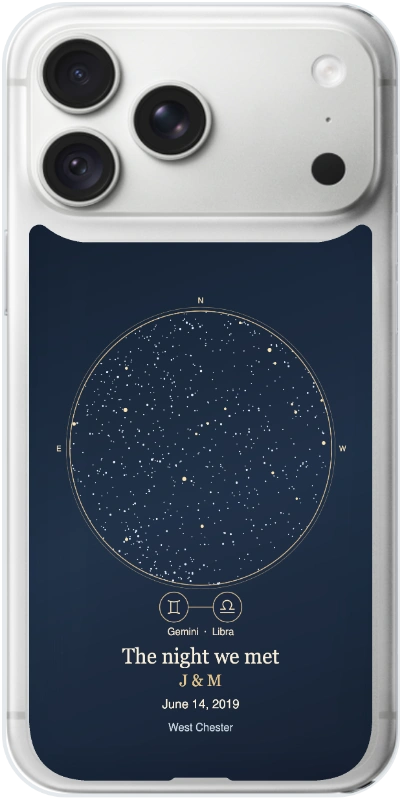
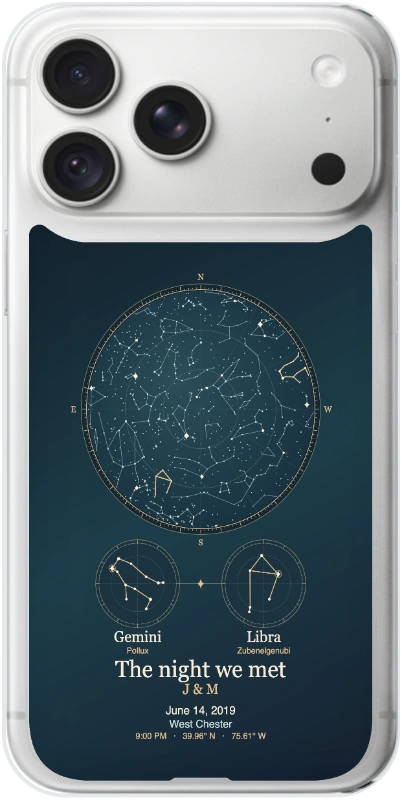
Draw the constellations behind personalized zodiac pairs

diff --git a/assets/night-sky.js b/assets/night-sky.js
@@ -5,21 +5,7 @@ window.KPNightSky = (function () {
   'use strict';
   const rad = Math.PI / 180;
   const signs = ['Aries','Taurus','Gemini','Cancer','Leo','Virgo','Libra','Scorpio','Sagittarius','Capricorn','Aquarius','Pisces'];
-  const emblems = [
-    'M0 16 Q0 -20 -12 -15 Q-22 -12 -13 -3 M0 16 Q0 -20 12 -15 Q22 -12 13 -3',
-    'M-14 -17 Q-12 -3 0 -3 Q12 -3 14 -17 M0 -3 A10 10 0 1 1 -.1 -3',
-    'M-14 -15 Q0 -10 14 -15 M-14 15 Q0 10 14 15 M-8 -12 V12 M8 -12 V12',
-    'M-16 -5 Q-5 -21 15 -10 M16 5 Q5 21 -15 10 M-8 -6 m-5 0 a5 5 0 1 0 10 0 a5 5 0 1 0 -10 0 M8 6 m-5 0 a5 5 0 1 0 10 0 a5 5 0 1 0 -10 0',
-    'M-12 4 a5 5 0 1 1 -.1 0 M-8 3 Q-15 -14 -4 -17 Q11 -21 8 -5 L4 7 Q1 20 14 14',
-    'M-17 -9 Q-13 -19 -10 -10 V10 M-10 -9 Q-5 -20 -2 -10 V10 M-2 -9 Q4 -20 6 -10 V3 Q7 14 16 17 M6 -3 Q20 -15 14 2 Q11 11 -1 15',
-    'M-17 13 H17 M-17 5 H-5 C-22 -12 -1 -22 8 -12 Q14 -4 5 5 H17',
-    'M-17 -9 Q-13 -19 -10 -10 V12 M-10 -9 Q-5 -20 -2 -10 V12 M-2 -9 Q4 -20 6 -10 V5 Q6 17 18 9 M12 8 L18 9 L17 15',
-    'M-15 15 L15 -15 M2 -15 H15 V-2 M-12 -3 L3 12',
-    'M-18 -13 Q-12 -21 -9 -6 L-6 9 Q-2 -26 4 -13 L8 5 Q14 18 19 5 Q19 -5 10 -1 Q3 3 2 15',
-    'M-17 -2 L-10 -10 L-7 -4 L1 -12 L4 -6 L13 -14 M-17 10 L-10 2 L-7 8 L1 0 L4 6 L13 -2',
-    'M-12 -16 Q2 0 -12 16 M12 -16 Q-2 0 12 16 M-13 0 H13'
-  ];
-  function project(stars, instant, lat, lon) {
+  function project(stars, instant, lat, lon, includeBelow=false) {
     const days = instant / 86400000 - 10957.5;
     const t = days / 36525;
     const local = (280.46061837 + 360.98564736629 * days + .000387933*t*t - t*t*t/38710000 + lon) * rad;
@@ -35,10 +21,12 @@ window.KPNightSky = (function () {
       const sinDec = Math.sin(theta)*Math.cos(d)*Math.cos(a) + Math.cos(theta)*Math.sin(d);
       const cosDec = Math.sqrt(Math.max(0, 1 - sinDec*sinDec));
       const up = Math.sin(phi)*sinDec + Math.cos(phi)*cosDec*Math.cos(hour);
-      if (up <= 0) continue;
+      if (up <= 0 && !includeBelow) continue;
       const east = -cosDec*Math.sin(hour), north = sinDec*Math.cos(phi) - cosDec*Math.cos(hour)*Math.sin(phi);
-      const scale = Math.acos(Math.min(1,up)) / (Math.PI/2) / (Math.hypot(east,north) || 1);
-      visible.push([-east*scale,-north*scale,magnitude]);
+      const scale = Math.acos(Math.max(-1,Math.min(1,up))) / (Math.PI/2) / (Math.hypot(east,north) || 1);
+      const point=[-east*scale,-north*scale,magnitude];
+      if(includeBelow)point.push(up);
+      visible.push(point);
     }
     return visible;
   }
@@ -56,46 +44,130 @@ window.KPNightSky = (function () {
     });
     return [...new Set(candidates)].filter(ms=>wallAt(ms)===wall).sort((a,b)=>a-b);
   }
-  function draw(stars, info) {
-    const c = document.createElement('canvas');
-    c.width=1200; c.height=2400;
-    const ctx=c.getContext('2d'), cx=600,cy=1290,r=440;
-    const wash=ctx.createLinearGradient(0,0,800,2400);
-    wash.addColorStop(0,'#081223');wash.addColorStop(.53,'#172941');wash.addColorStop(1,'#0b1525');
-    ctx.fillStyle=wash;ctx.fillRect(0,0,c.width,c.height);
-    function ring(x,y,radius,color,width) {
-      ctx.strokeStyle=color;ctx.lineWidth=width;ctx.beginPath();ctx.arc(x,y,radius,0,Math.PI*2);ctx.stroke();
-    }
-    function label(str,x,y,size,color,font,max=1010) {
-      ctx.textAlign='center';ctx.fillStyle=color;ctx.font=size+'px '+font;ctx.fillText(str,x,y,max);
-    }
-    // Reserve an inset for models with wide camera cutouts and tall print masks.
-    ctx.translate(0,-265);
-    ring(cx,cy,r,'#d8b786',3);ring(cx,cy,r+12,'#867963',1.5);
-    for (const [x,y,mag] of project(stars,info.instant,info.lat,info.lon)) {
-      const size=1.55+Math.pow((6-mag)/5,2)*3.7;
-      ctx.fillStyle=mag<2?'#ffe5b1':'#e0e9f5';ctx.beginPath();ctx.arc(cx+x*r,cy+y*r,size,0,Math.PI*2);ctx.fill();
-    }
-    label('N',cx,cy-r-25,26,'#efd7ad','sans-serif');
-    label('E',cx-r-37,cy+10,25,'#efd7ad','sans-serif');
-    label('W',cx+r+37,cy+10,25,'#efd7ad','sans-serif');
-    const pair=info.signs.filter(Boolean);
-    if(pair.length===2){ctx.strokeStyle='#d8b786';ctx.lineWidth=3;ctx.beginPath();ctx.moveTo(558,1800);ctx.lineTo(642,1800);ctx.stroke();}
-    pair.forEach((sign,i)=>{
-      const x=pair.length===1?600:510+i*180;
-      ctx.fillStyle='#122139';ctx.beginPath();ctx.arc(x,1800,48,0,2*Math.PI);ctx.fill();ring(x,1800,48,'#d8b786',3);
-      ctx.save();ctx.translate(x,1800);ctx.scale(1.35,1.35);ctx.strokeStyle='#fae3b7';ctx.lineWidth=2.6;
-      ctx.lineCap='round';ctx.lineJoin='round';ctx.stroke(new Path2D(emblems[signs.indexOf(sign)]));ctx.restore();
+  const figureIds = ['Ari','Tau','Gem','Cnc','Leo','Vir','Lib','Sco','Sgr','Cap','Aqr','Psc'];
+
+  // A north-up tangent-plane portrait keeps each sign recognizable across the RA seam.
+  function portraitPoints(stars) {
+    const vectors = stars.map(([ra,dec]) => [
+      Math.cos(dec*rad)*Math.cos(ra*rad), Math.cos(dec*rad)*Math.sin(ra*rad), Math.sin(dec*rad)
+    ]);
+    const center = vectors.reduce((sum,v)=>sum.map((n,i)=>n+v[i]), [0,0,0]);
+    const ra = Math.atan2(center[1],center[0]);
+    const dec = Math.atan2(center[2],Math.hypot(center[0],center[1]));
+    const points = vectors.map(([x,y,z]) => {
+      const along = x*Math.cos(ra)+y*Math.sin(ra);
+      const depth = along*Math.cos(dec)+z*Math.sin(dec);
+      return [(x*Math.sin(ra)-y*Math.cos(ra))/depth, (along*Math.sin(dec)-z*Math.cos(dec))/depth];
     });
-    if(pair.length)label(pair.join('  ·  '),600,1890,33,'#f9e4c7','sans-serif');
-    label(info.title,600,1981,69,'#fff3dc','Georgia, serif');
-    if(info.initials)label(info.initials,600,2054,54,'#e6c488','Georgia, serif');
-    label(info.date,600,2125,41,'#fff3dc','sans-serif');
-    label(info.place,600,2198,36,'#c7d2df','sans-serif',965);
+    const mid = axis => {
+      const values = points.map(p=>p[axis]);
+      return (Math.min(...values)+Math.max(...values))/2;
+    };
+    const mx=mid(0), my=mid(1);
+    const radius=Math.max(...points.map(([x,y])=>Math.hypot(x-mx,y-my)));
+    return points.map(([x,y])=>[(x-mx)/radius,(y-my)/radius]);
+  }
+
+  function draw(stars, figures, info) {
+    const c=document.createElement('canvas');
+    c.width=1200; c.height=2400;
+    const ctx=c.getContext('2d');
+    const gold='#ecc18a', ivory='#fff0d9', pale='#cbdedc', brass='#827c65';
+    const pairs=info.signs.filter(sign=>signs.includes(sign));
+    const active=new Set(pairs.map(sign=>figureIds[signs.indexOf(sign)]));
+    const background=ctx.createLinearGradient(80,250,1050,2200);
+    background.addColorStop(0,'#081724');background.addColorStop(.50,'#133542');background.addColorStop(1,'#0a1727');
+    ctx.fillStyle=background;ctx.fillRect(0,0,c.width,c.height);
+    function line(x,y,xx,yy,color,width) {
+      ctx.strokeStyle=color;ctx.lineWidth=width;ctx.beginPath();ctx.moveTo(x,y);ctx.lineTo(xx,yy);ctx.stroke();
+    }
+    function circle(x,y,r,color,width) {
+      ctx.beginPath();ctx.arc(x,y,r,0,Math.PI*2);
+      if(width){ctx.strokeStyle=color;ctx.lineWidth=width;ctx.stroke();}
+      else{ctx.fillStyle=color;ctx.fill();}
+    }
+    function lettering(str,x,y,size,color,face,maxWidth=960) {
+      ctx.textAlign='center';ctx.fillStyle=color;ctx.font=size+'px '+face;ctx.fillText(str,x,y,maxWidth);
+    }
+    function spark(x,y,r,color) {
+      ctx.fillStyle=color;ctx.beginPath();ctx.moveTo(x,y-r);ctx.quadraticCurveTo(x+r*.14,y-r*.14,x+r*.75,y);
+      ctx.quadraticCurveTo(x+r*.14,y+r*.14,x,y+r);ctx.quadraticCurveTo(x-r*.14,y+r*.14,x-r*.75,y);
+      ctx.quadraticCurveTo(x-r*.14,y-r*.14,x,y-r);ctx.fill();
+    }
+    function ticks(x,y,r,count,color) {
+      for(let i=0;i<count;i++){
+        const angle=2*Math.PI*i/count, dx=Math.sin(angle),dy=-Math.cos(angle);
+        const length=i%5===0?12:5;
+        line(x+dx*r,y+dy*r,x+dx*(r+length),y+dy*(r+length),color,i%5===0?2:1.4);
+      }
+    }
+    function paths(figure,points,color,width,onSky=false) {
+      for(const path of figure.paths){
+        for(let i=1;i<path.length;i++){
+          const a=points[path[i-1]],b=points[path[i]];
+          if(onSky&&a[3]<=0&&b[3]<=0)continue;
+          line(a[0],a[1],b[0],b[1],color,width);
+        }
+      }
+    }
+    const cx=600,cy=900,r=380;
+    circle(cx,cy,r+21,'#091d28');circle(cx,cy,r+22,brass,2);circle(cx,cy,r+4,gold,2);
+    ticks(cx,cy,r+6,180,gold);
+    ctx.save();ctx.beginPath();ctx.arc(cx,cy,r,0,Math.PI*2);ctx.clip();
+    const field=ctx.createRadialGradient(510,795,10,cx,cy,560);
+    field.addColorStop(0,'#214652');field.addColorStop(.7,'#102c3a');field.addColorStop(1,'#0a192a');
+    ctx.fillStyle=field;ctx.fillRect(cx-r,cy-r,r*2,r*2);
+    for(const radius of [r/3,2*r/3])circle(cx,cy,radius,'#486366',1.5);
+    for(let i=0;i<12;i++){
+      const a=i*Math.PI/6;line(cx,cy,cx+r*Math.cos(a),cy+r*Math.sin(a),'#36535a',1);
+    }
+    for(const [id,figure] of Object.entries(figures)){
+      const projected=project(figure.stars,info.instant,info.lat,info.lon,true)
+        .map(([x,y,mag,up])=>[cx+x*r,cy+y*r,mag,up]);
+      paths(figure,projected,active.has(id)?gold:'#76939c',active.has(id)?3.4:1.8,true);
+    }
+    for(const [x,y,mag] of project(stars,info.instant,info.lat,info.lon)){
+      const size=1.35+Math.pow((6-mag)/5,2)*3.6;
+      circle(cx+x*r,cy+y*r,size,mag<2?ivory:'#d1e0df');
+      if(mag<1.1)spark(cx+x*r,cy+y*r,size*2,ivory);
+    }
+    ctx.restore();
+    [['N',cx,cy-r-35],['S',cx,cy+r+57],['E',cx-r-48,cy+10],['W',cx+r+48,cy+10]].forEach(([s,x,y])=>lettering(s,x,y,27,gold,'Georgia, serif'));
+
+    const portraitY=1460, pr=130;
+    function portrait(sign,x) {
+      const f=figures[figureIds[signs.indexOf(sign)]];
+      const pts=portraitPoints(f.stars).map(([a,b])=>[x+a*pr*.79,portraitY+b*pr*.79]);
+      circle(x,portraitY,pr+11,'#102a37');circle(x,portraitY,pr+11,brass,2);
+      ticks(x,portraitY,pr-2,60,'#aa956f');circle(x,portraitY,pr,'#647a77',1.6);
+      circle(x,portraitY,pr*.69,'#34515a',1.3);
+      line(x-pr+4,portraitY,x+pr-4,portraitY,'#34515a',1.2);
+      line(x,portraitY-pr+4,x,portraitY+pr-4,'#34515a',1.2);
+      paths(f,pts,gold,3);
+      pts.forEach(([a,b],i)=>circle(a,b,Math.max(2.8,6.1-f.stars[i][2]*.48),ivory));
+      const [name,index]=f.anchor, [ax,ay]=pts[index];
+      circle(ax,ay,11,'#d4af79',1.6);spark(ax,ay,13,ivory);
+      lettering(sign,x,portraitY+187,49,ivory,'Georgia, serif',405);
+      lettering(name,x,portraitY+224,27,gold,'sans-serif',390);
+    }
+    if(pairs.length===2){
+      line(519,portraitY,681,portraitY,brass,2);spark(600,portraitY,17,gold);
+    }
+    pairs.forEach((s,i)=>portrait(s,pairs.length===1?cx:388+424*i));
+    const titleY=pairs.length?1760:1550;
+    lettering(info.title,cx,titleY,75,ivory,'Georgia, serif',930);
+    const offset=info.initials?54:0;
+    if(info.initials)lettering(info.initials,cx,titleY+54,46,gold,'Georgia, serif');
+    const dateY=titleY+65+offset;
+    lettering(info.date,cx,dateY,37,ivory,'sans-serif');
+    lettering(info.place,cx,dateY+43,35,pale,'sans-serif',900);
+    const coords=[Math.abs(info.lat).toFixed(2)+'° '+(info.lat<0?'S':'N'),Math.abs(info.lon).toFixed(2)+'° '+(info.lon<0?'W':'E')];
+    lettering([info.clock,...coords].join('   ·   '),cx,dateY+79,28,gold,'sans-serif',900);
     return c;
   }
   function mount(host, hooks) {
     host.innerHTML = `<h2>Map a special night</h2><p>Choose the date and place to map the bright stars above that horizon. Use 9:00 PM for an evening estimate.</p>
+    <details class="sky-example"><summary>See a finished example</summary><img src="assets/home/personal/sky-case.webp" alt="Gemini and Libra on a case with the night sky above West Chester on June 14, 2019" width="394" height="800"></details>
     <form id="skyForm"><label>Occasion<select name="occasion"><option>The night we met</option><option>Our wedding night</option><option>Under the same sky</option><option>The night you were born</option></select></label>
     <div class="studio-pair"><label>Date<input name="date" type="date" min="1900-01-01" max="2100-12-31" required></label><label>Local time<input type="time" name="time" value="21:00" required></label></div>
     <label>Town or city<input name="query" type="search" placeholder="Search for a city" autocomplete="off"></label>
@@ -104,12 +176,12 @@ window.KPNightSky = (function () {
     <label>Place name<input name="placeName" maxlength="48"></label><div class="studio-pair"><label>Latitude (south is negative)<input name="lat" type="number" min="-90" max="90" step="any"></label><label>Longitude (west is negative)<input name="lon" type="number" min="-180" max="180" step="any"></label></div><label>Time zone<input name="zone" placeholder="America/New_York"></label></details>
     <label>Couple’s initials (optional)<input name="initials" maxlength="12" placeholder="J &amp; M"></label>
     <div class="studio-pair"><label>First zodiac sign<select name="sign1"></select></label><label>Second zodiac sign<select name="sign2"></select></label></div>
-    <p>Optional zodiac emblems sit together on the chart’s rim. The star positions come from your date, time and location.</p>
+    <p>Each sign gets a constellation portrait with a named star. Look for the gold lines on the sky map to see which parts of your signs were above the horizon.</p>
     <button type="submit">Update my case preview</button></form>
-    <p role="status" id="skyStatus"></p><div id="skyActions" hidden><a href="#stageWrap">See my case</a> · <button type="button" id="skySave">Save my sky artwork</button></div>
-    <details><summary>About this sky map</summary><p>A map of bright stars above the geometric horizon. Moon, planets, clouds and daylight are outside this star chart. Star positions from the <a href="https://heasarc.gsfc.nasa.gov/W3Browse/all/bsc5p.html">Yale Bright Star Catalogue</a>. City coordinates and time zones adapted from <a href="https://www.geonames.org/">GeoNames</a> under <a href="https://creativecommons.org/licenses/by/4.0/">CC BY 4.0</a>.</p></details>`;
+    <p role="status" id="skyStatus"></p><div id="skyActions" hidden><a href="#stageWrap">See my case</a> · <button type="button" id="skySave">Save my sky artwork</button><details id="skyDetail"><summary>See the star map up close</summary><div id="skyArtwork"></div></details></div>
+    <details><summary>About this sky map</summary><p>A map of bright stars above the geometric horizon. Moon, planets, clouds and daylight are outside this star chart. Star positions from the <a href="https://heasarc.gsfc.nasa.gov/W3Browse/all/bsc5p.html">Yale Bright Star Catalogue</a>. Constellation figures adapted from <a href="https://github.com/ofrohn/d3-celestial">D3-Celestial</a> (<a href="assets/sky-figures-license.txt">credits and license</a>). City coordinates and time zones adapted from <a href="https://www.geonames.org/">GeoNames</a> under <a href="https://creativecommons.org/licenses/by/4.0/">CC BY 4.0</a>.</p></details>`;
     const form=host.querySelector('form'), f=form.elements, status=host.querySelector('#skyStatus'), actions=host.querySelector('#skyActions');
-    let chart, stars, places, indices=[];
+    let chart, stars, figures, places, indices=[];
     for(const select of [f.sign1,f.sign2])for(const sign of ['',...signs])select.add(new Option(sign||'None',sign));
     const normalize=s=>s.normalize('NFD').replace(/[\u0300-\u036f]/g,'').toLowerCase().replace(/ł/g,'l').replace(/ø/g,'o').replace(/ß/g,'ss').replace(/đ/g,'d');
     const cityLabel=row=>row.slice(0,3).filter(Boolean).join(', ');
@@ -130,8 +202,10 @@ window.KPNightSky = (function () {
       f.place.replaceChildren(new Option('Choose a location',''),...indices.map(i=>new Option(cityLabel(places[i]),i)));
       if(indices.length===1)f.place.selectedIndex=1;
     }
-    function invalidate(){chart=null;actions.hidden=true;hooks.changed();status.textContent='Update the preview to apply your details.';}
+    function invalidate(){chart=null;detail.open=false;artwork.replaceChildren();actions.hidden=true;hooks.changed();status.textContent='Update the preview to apply your details.';}
     form.addEventListener('input',invalidate);
+    const detail=host.querySelector('#skyDetail'), artwork=host.querySelector('#skyArtwork');
+    detail.addEventListener('toggle',()=>{if(detail.open&&chart)artwork.replaceChildren(chart);});
     f.query.addEventListener('input',()=>{if(places)populate();});
     function manualMode(){
       f.place.required=!f.manual.checked;
@@ -149,9 +223,10 @@ window.KPNightSky = (function () {
         const matches=instants(f.date.value,f.time.value,zone);
         if(!matches.length)throw Error('That local time falls in a clock change. Choose a different time.');
         const date=new Intl.DateTimeFormat('en-US',{month:'long',day:'numeric',year:'numeric',timeZone:zone}).format(matches[0]);
-        chart=draw(stars,{instant:matches[0],lat,lon,place,date,title:f.occasion.value,initials:f.initials.value.trim(),signs:[f.sign1.value,f.sign2.value]});
-        hooks.apply(chart);actions.hidden=false;
-        status.textContent='Preview ready for '+place+' · '+date+' · '+f.time.value+' ('+zone+').'+(matches.length>1?' The clock repeated this time. Using the first occurrence.':'');
+        chart=draw(stars,figures,{clock:new Intl.DateTimeFormat('en-US',{timeZone:zone,hour:'numeric',minute:'2-digit'}).format(matches[0]),instant:matches[0],lat,lon,place,date,title:f.occasion.value,initials:f.initials.value.trim(),signs:[f.sign1.value,f.sign2.value]});
+        chart.setAttribute('role','img');chart.setAttribute('aria-label',[f.occasion.value,place,date,...[f.sign1.value,f.sign2.value].filter(Boolean)].join(', '));
+        if(detail.open)artwork.replaceChildren(chart);hooks.apply(chart);actions.hidden=false;
+        status.textContent='Preview ready for '+place+' · '+date+' · '+f.time.value+' ('+zone+', '+new Intl.DateTimeFormat('en',{timeZone:zone,timeZoneName:'longOffset'}).formatToParts(matches[0]).find(p=>p.type==='timeZoneName').value+').'+(matches.length>1?' The clock repeated this time. Using the first occurrence.':'');
       }catch(err){invalidate();status.textContent=err instanceof RangeError?'Enter a time zone such as America/New_York.':err.message;}
     });
     host.querySelector('#skySave').onclick=()=>{
@@ -159,9 +234,9 @@ window.KPNightSky = (function () {
       chart.toBlob(blob=>{if(!blob)return;const a=document.createElement('a');a.href=URL.createObjectURL(blob);a.download='keepsake-night-sky.png';a.click();setTimeout(()=>URL.revokeObjectURL(a.href),60000);},'image/png');
     };
     host.addEventListener('skyreset',()=>{form.reset();manualMode();if(places)populate();invalidate();status.textContent='Choose a date and place to start again.';});
-    Promise.all(['bright-stars','sky-places'].map(async name=>{
+    Promise.all(['bright-stars','sky-places','sky-figures'].map(async name=>{
       const res=await fetch('assets/'+name+'.json');if(!res.ok)throw Error();return res.json();
-    })).then(values=>{[stars,places]=values;populate();}).catch(()=>{status.textContent='The local sky catalogue could not load. Reload this page to try again.';});
+    })).then(values=>{[stars,places,figures]=values;populate();}).catch(()=>{status.textContent='The local sky catalogue could not load. Reload this page to try again.';});
   }
   return {mount,project,instants};
 })();

diff --git a/gallery.html b/gallery.html
@@ -111,7 +111,7 @@ h1{font-family:"Bricolage Grotesque","Nunito Sans",sans-serif;font-weight:800;le
           <div style="font-size:12px;font-weight:800;letter-spacing:.16em;text-transform:uppercase;color:#6C6C72;margin-bottom:14px">Design library</div>
           <h1 id="shopTitle" style="font-weight:900;font-size:clamp(26px,3.8vw,52px);letter-spacing:-.01em;color:#191921;margin:0;line-height:1.02">Your case.<br>Your kind of statement.</h1>
           <p style="font-size:14px;font-weight:700;color:#6E6E70;margin:10px 0 0">Every case design $44.99 · Choose a print. Make it yours in store.</p>
-          <a href="cherry-duck.html" style="display:inline-flex;align-items:center;min-height:44px;font-weight:800">Compare Cherry Dot &amp; Wrong Way Duck ↗</a>
+          <a id="galleryFeature" href="cherry-duck.html" style="display:inline-flex;align-items:center;min-height:44px;font-weight:800">Compare Cherry Dot &amp; Wrong Way Duck ↗</a>
         </div>
         <div style="font-size:13px;font-weight:800;color:#6C6C72"><span id="countLabel" aria-live="polite"></span></div>
       </div>
@@ -648,6 +648,10 @@ h1{font-family:"Bricolage Grotesque","Nunito Sans",sans-serif;font-weight:800;le
     $('countLabel').textContent = kpCurated
       ? ('Our favorites · ' + items.length + ' of ' + kpTotal + ' designs')
       : (items.length + ' design' + (items.length===1?'':'s') + (device ? ' · ' + device : ''));
+    const zodiac = filter === 'Zodiac';
+    const feature = $('galleryFeature');
+    feature.textContent = zodiac ? 'Pair your signs on a custom star map →' : 'Compare Cherry Dot & Wrong Way Duck ↗';
+    feature.href = zodiac ? 'customizer.html?studio=sky' + (device ? '&model=' + encodeURIComponent(slugify(device)) : '') + '#personalStudio' : 'cherry-duck.html';
     $('shopTitle').innerHTML = device ? (device + ' cases.') : 'Your case.<br>Your kind of statement.';
     if (!items.length){
       $('grid').innerHTML = '<div style="grid-column:1/-1;text-align:center;padding:60px 20px">'

diff --git a/gifts.html b/gifts.html
@@ -376,8 +376,8 @@ html,body{background:var(--paper)}
         </div>
       </div>
       <div class="gg-row">
-        <div class="shelfHead"><h2 class="dsp">For the Astrology Friend</h2><a href="gallery.html">Browse designs →</a></div>
-        <p class="gg-sub">Their constellation, printed in the night sky.</p>
+        <div class="shelfHead"><h2 class="dsp">For the Astrology Friend</h2><a href="customizer.html?studio=sky#personalStudio">Map a special night →</a></div>
+        <p class="gg-sub">Choose their sign, or pair two constellations with the sky from the night you met.</p>
         <div class="caseRow">
           <a class="caseTile ct1" href="customizer.html?design=zodiac-leo-night-sky.jpg" style="background-image:url('assets/designs/thumbs/zodiac-leo-night-sky.jpg')" aria-label="Leo night sky case"></a>
           <a class="caseTile ct2" href="customizer.html?design=zodiac-aquarius-night-sky.jpg" style="background-image:url('assets/designs/thumbs/zodiac-aquarius-night-sky.jpg')" aria-label="Aquarius night sky case"></a>

diff --git a/assets/personal-studio.css b/assets/personal-studio.css
@@ -14,3 +14,6 @@
 #personalStudio summary,#skyActions a {text-decoration:underline;cursor:pointer;}
 #personalStudio button {background:#162a40;color:white;border:0;padding:12px 16px;border-radius:7px;font:inherit;font-weight:750;cursor:pointer;}
 .sky-studio #photoSection > :is(#uploadBtn,#browseLink,#photoPrivacy,#editTools,#photoLooksWrap),.sky-studio #photoSection > p,.sky-studio #photoSection > div:has(+ #photoLooksWrap) {display:none!important;}
+
+#personalStudio .sky-example img {display:block;width:min(100%,300px);height:auto;margin:14px auto;}
+#skyArtwork canvas {display:block;width:100%;height:auto;margin-top:12px;}
